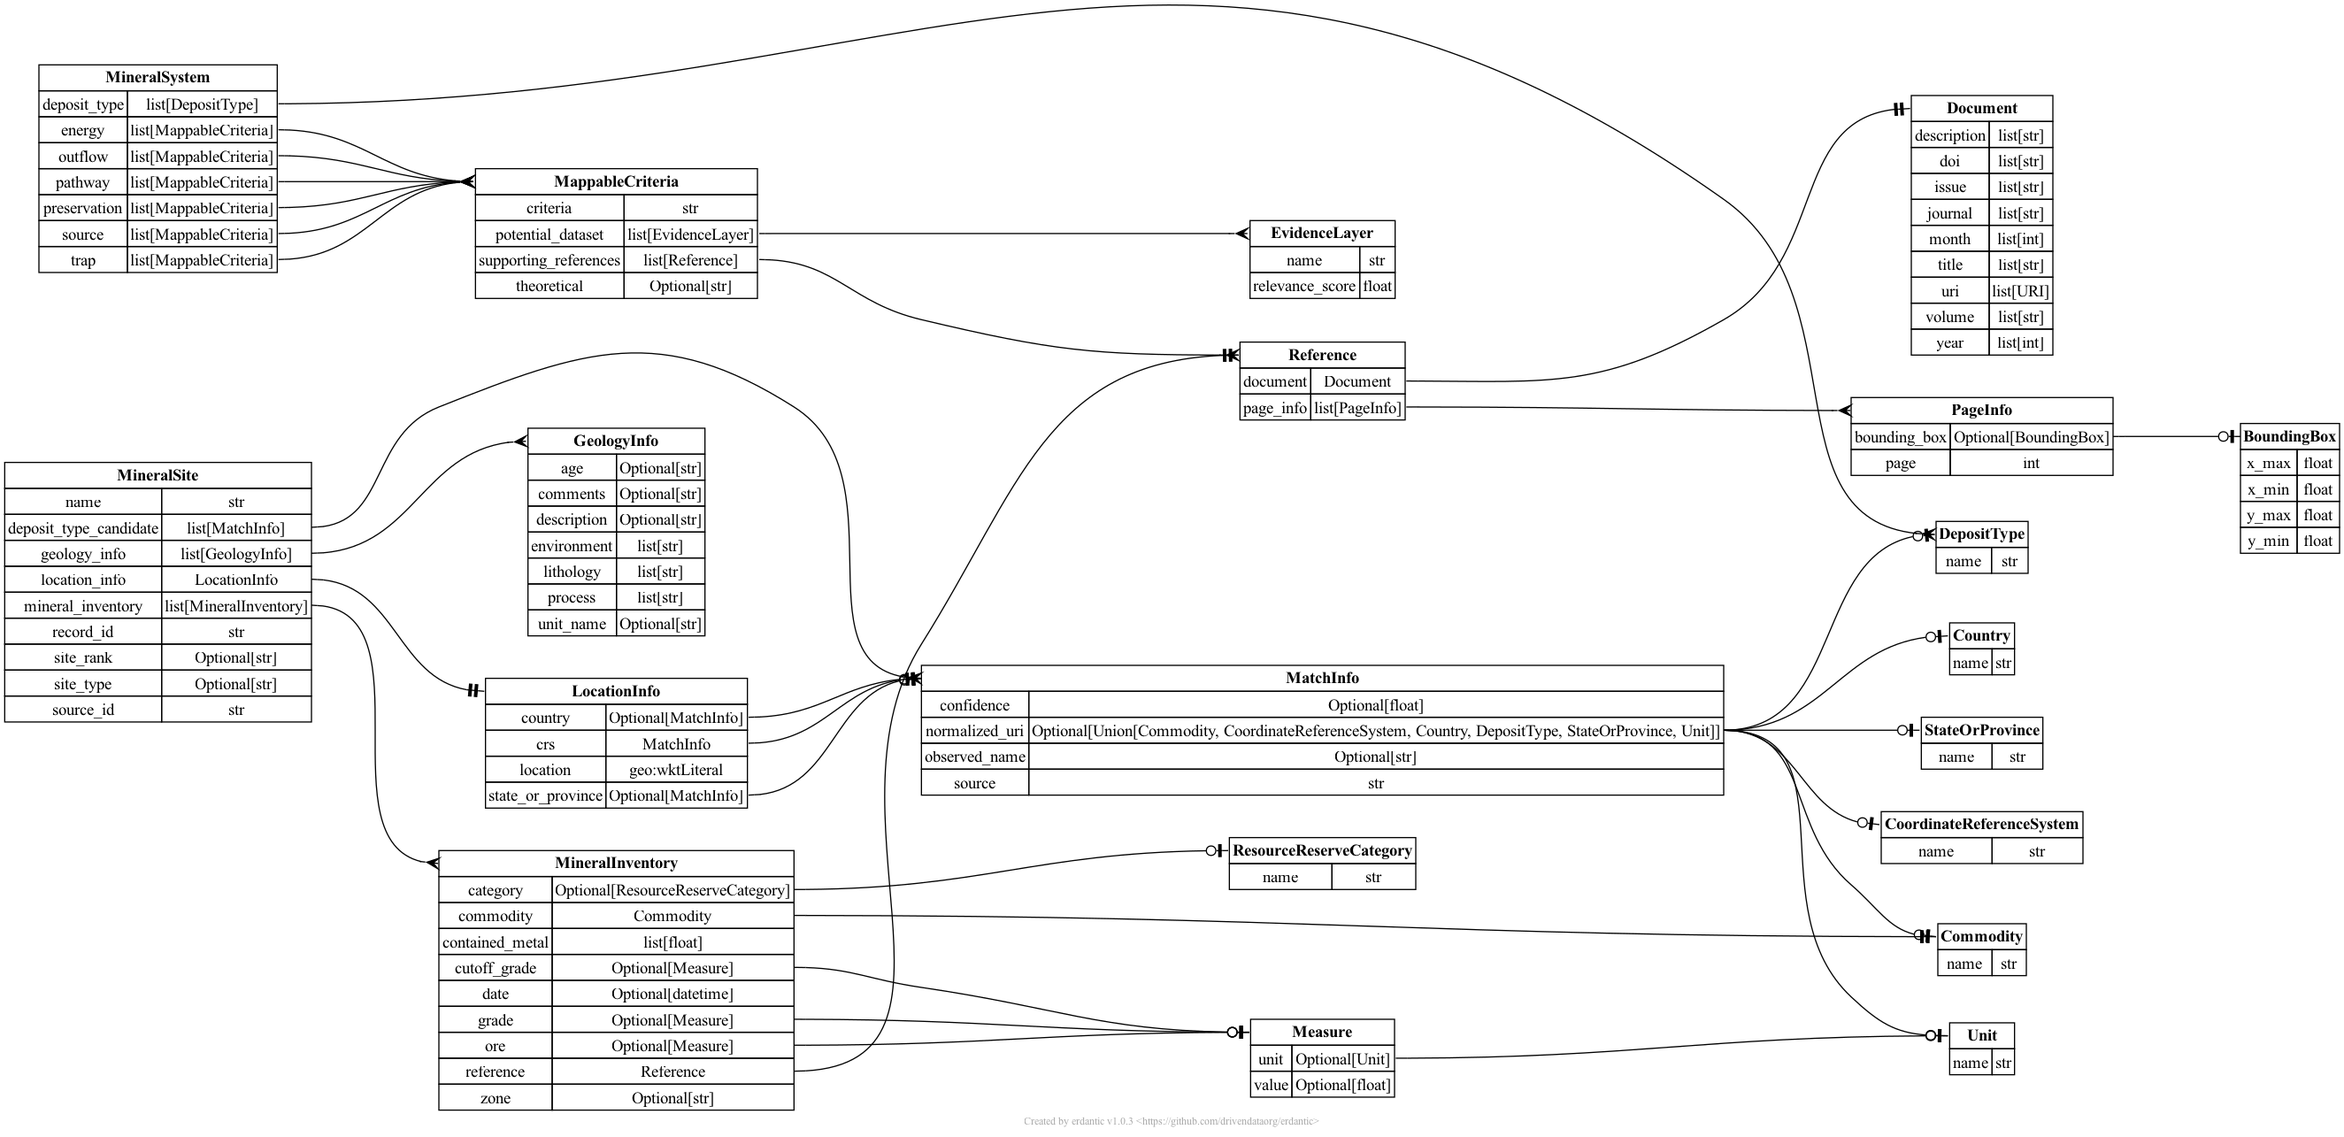
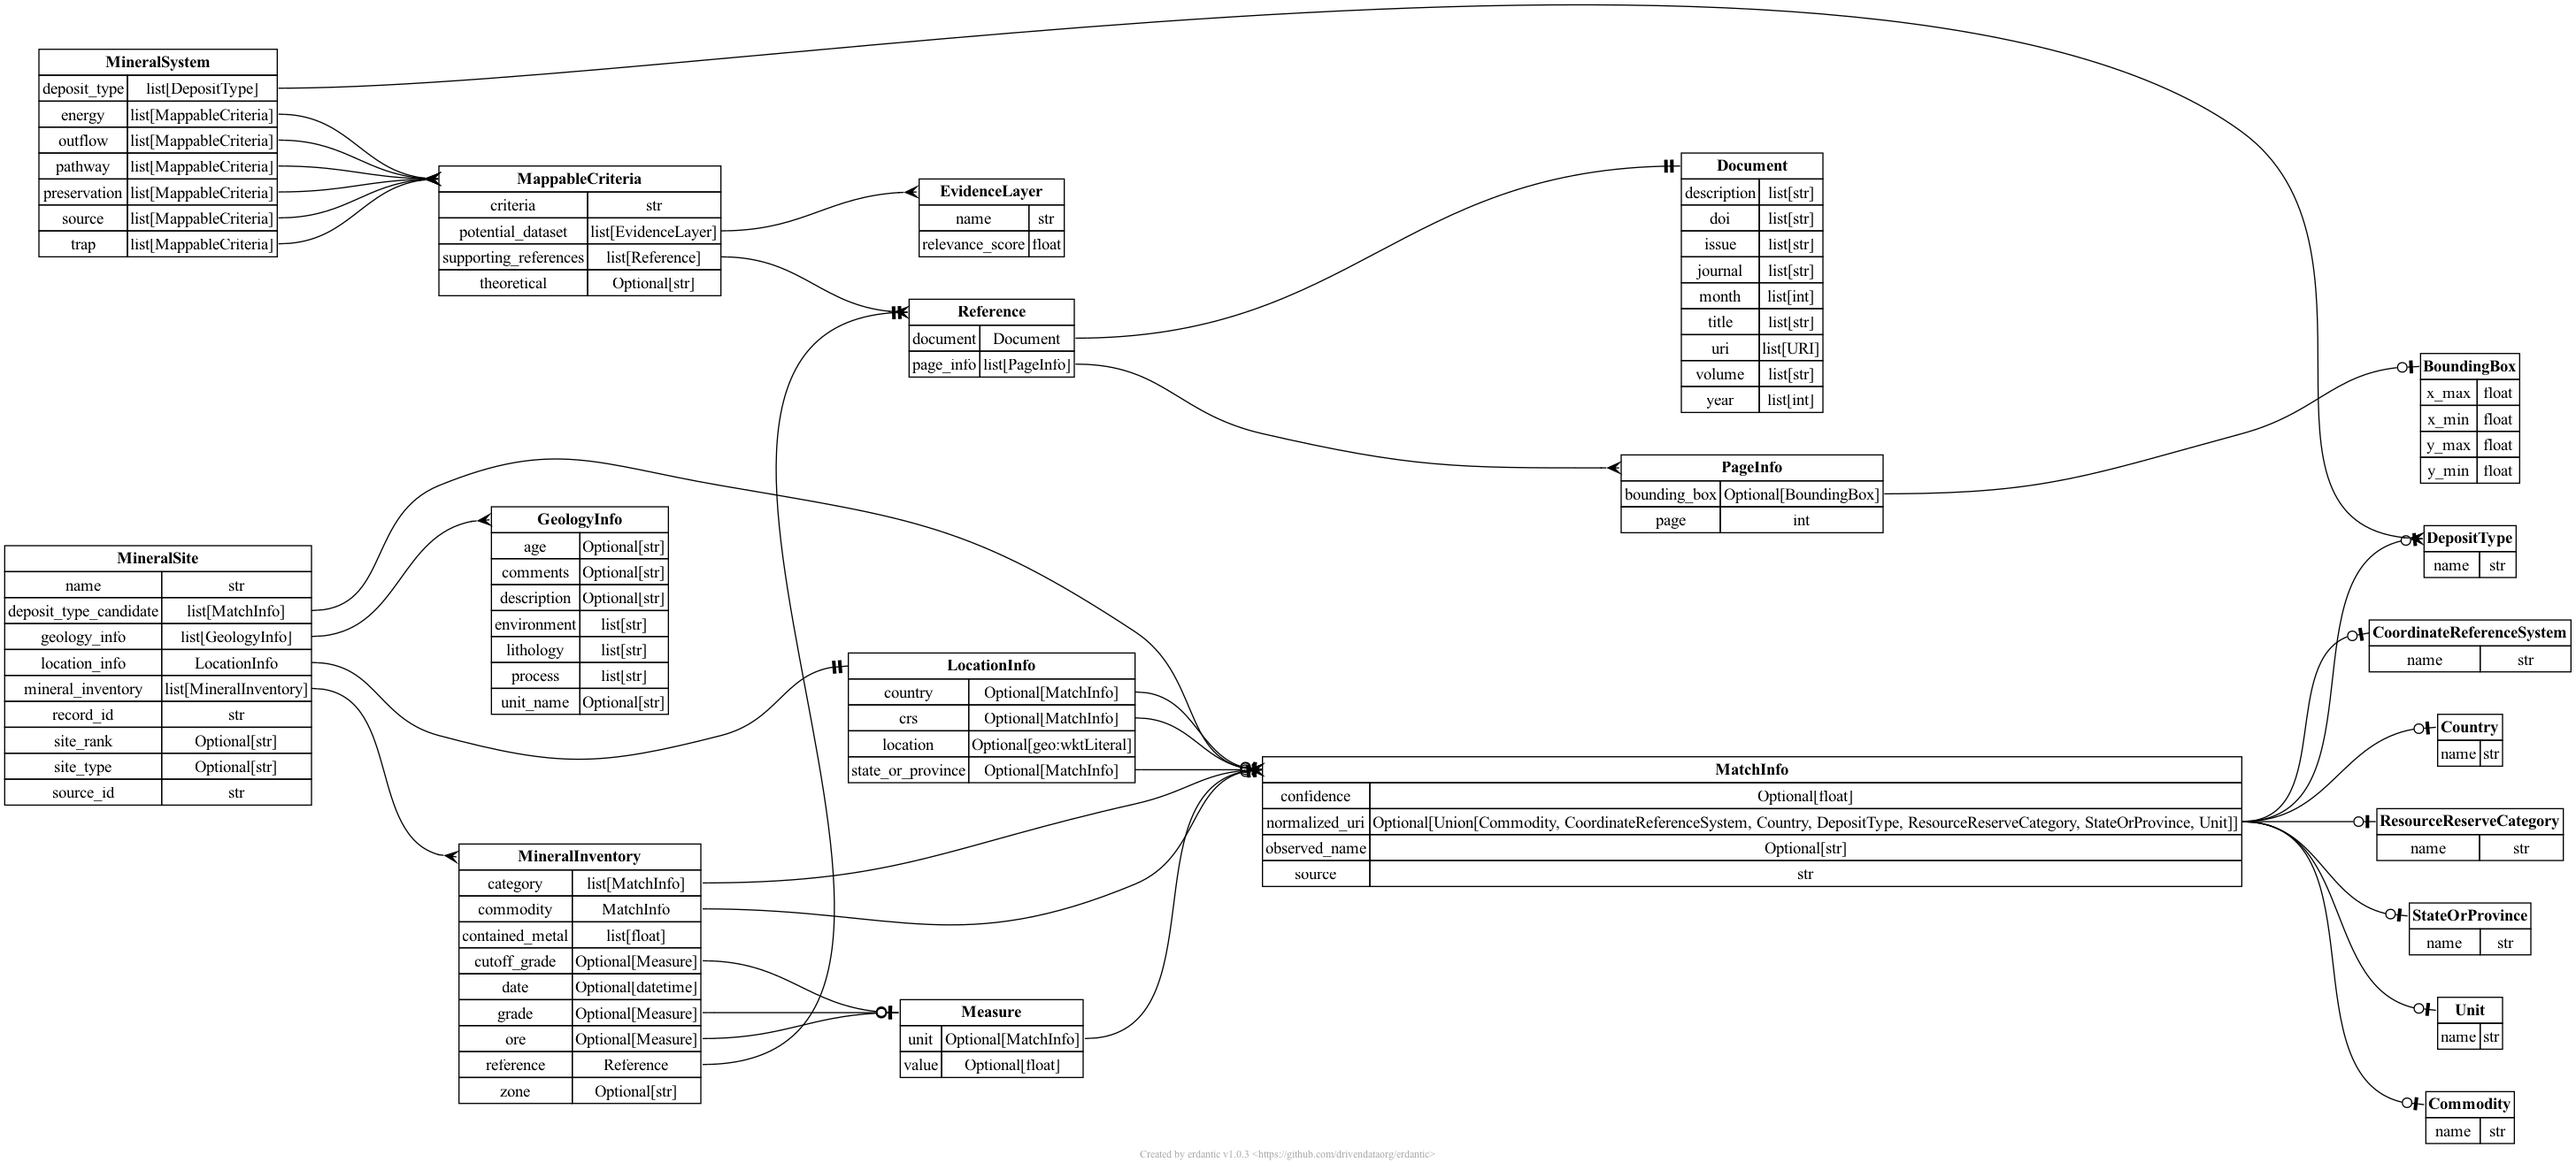
update the ontology and add version (#26)
* update ontology

* add version to the ontology

diff --git a/minmodkg/entity_linking.py b/minmodkg/entity_linking.py
@@ -1,0 +1,153 @@
+from __future__ import annotations
+
+import re
+from dataclasses import dataclass
+from pathlib import Path
+from typing import Iterable, Literal, Optional
+
+import numpy as np
+import strsim
+from rdflib import RDFS, SKOS, Graph, URIRef
+
+
+@dataclass
+class Doc:
+    id: str
+    labels: list[str]
+    props: dict[str, str]
+
+
+class EntityLinking:
+    instances = {}
+
+    def __init__(self, data_file: Path | str, format: str):
+        self.data_file = Path(data_file)
+        self.g = Graph()
+        self.g.parse(self.data_file, format=format)
+
+        self.docs: list[Doc] = []
+        for subj in self.g.subjects(unique=True):
+            if not isinstance(subj, URIRef):
+                continue
+            labels = [str(x) for x in self.g.objects(subj, RDFS.label, unique=True)]
+            labels.extend(
+                (str(x) for x in self.g.objects(subj, SKOS.altLabel, unique=True))
+            )
+            if len(labels) == 0:
+                continue
+
+            self.docs.append(
+                Doc(
+                    id=str(subj),
+                    labels=labels,
+                    props={
+                        str(pred): str(obj)
+                        for pred, obj in self.g.predicate_objects(subj)
+                        if pred != RDFS.label
+                    },
+                )
+            )
+        self.id2doc = {doc.id: doc for doc in self.docs}
+        self.feat_extractor = FeatExtractor()
+
+    @staticmethod
+    def get_instance(
+        entity_dir: Path,
+        name: Literal["crs", "country", "state_or_province", "commodity"],
+    ):
+        entdir = CRITICAL_MAAS_DIR / "kgdata/data/predefined-entities"
+        if name == "crs":
+            EntityLinking.instances[name] = EntityLinking(entdir / "epsg.ttl", "turtle")
+        elif name == "country":
+            EntityLinking.instances[name] = EntityLinking(
+                entdir / "country.ttl", "turtle"
+            )
+        elif name == "state_or_province":
+            EntityLinking.instances[name] = EntityLinking(
+                entdir / "state_or_province.ttl", "turtle"
+            )
+            name2country = {
+                doc.labels[0]: doc for doc in EntityLinking.get_instance("country").docs
+            }
+            for doc in EntityLinking.instances[name].docs:
+                doc.props["https://minmod.isi.edu/resource/country"] = name2country[
+                    doc.props["https://minmod.isi.edu/resource/country"]
+                ].id
+        return EntityLinking.instances[name]
+
+    def link(
+        self, query: str, has_props: Optional[dict[str, str]] = None
+    ) -> Optional[tuple[Doc, float]]:
+        if has_props is None:
+            has_props = {}
+
+        scores = [
+            (i, self.feat_extractor.extract(query, doc.labels).mean())
+            for i, doc in enumerate(self.docs)
+            if all(doc.props.get(k) == v for k, v in has_props.items())
+        ]
+
+        if len(scores) == 0:
+            return None
+
+        i, score = max(scores, key=lambda x: x[1])
+        return self.docs[i], score
+
+
+class FeatExtractor:
+    def __init__(self):
+        self.chartok = strsim.CharacterTokenizer()
+        self.charseqtok = strsim.WhitespaceCharSeqTokenizer()
+
+    def extract(self, text: str, labels: Iterable[str]) -> np.ndarray:
+        feat = np.zeros((7,), dtype=np.float64)
+        for label in labels:
+            feat = np.maximum(feat, self.extract_pairwise_features_v2(text, label))
+        return feat
+
+    def extract_pairwise_features_v2(self, text: str, entity_label: str):
+        text_t1 = self.chartok.tokenize(text)
+        entity_label_t1 = self.chartok.tokenize(entity_label)
+
+        text_t2 = self.charseqtok.tokenize(text)
+        entity_label_t2 = self.charseqtok.tokenize(entity_label)
+
+        text_t3 = self.charseqtok.unique_tokenize(text)
+        entity_label_t3 = self.charseqtok.unique_tokenize(entity_label)
+
+        out2 = [
+            strsim.levenshtein_similarity(text_t1, entity_label_t1),
+            strsim.jaro_winkler_similarity(text_t1, entity_label_t1),
+            strsim.monge_elkan_similarity(text_t2, entity_label_t2),
+            (
+                sym_monge_score := strsim.symmetric_monge_elkan_similarity(
+                    text_t2, entity_label_t2
+                )
+            ),
+            (hyjac_score := strsim.hybrid_jaccard_similarity(text_t3, entity_label_t3)),
+            does_ordinal_match(text, entity_label, sym_monge_score, 0.7),
+            does_ordinal_match(text, entity_label, hyjac_score, 0.7),
+        ]
+        return out2
+
+
+def does_ordinal_match(s1: str, s2: str, sim: float, threshold: float) -> float:
+    """Test for strings containing ordinal categorical values such as Su-30 vs Su-25, 29th Awards vs 30th Awards.
+
+    Args:
+        s1: Cell Label
+        s2: Entity Label
+    """
+    if sim < threshold:
+        return 0.4
+
+    digit_tokens_1 = re.findall(r"\d+", s1)
+    digit_tokens_2 = re.findall(r"\d+", s2)
+
+    if digit_tokens_1 == digit_tokens_2:
+        return 1.0
+
+    if len(digit_tokens_1) == 0 or len(digit_tokens_2) == 0:
+        return 0.4
+
+    return 0.0
